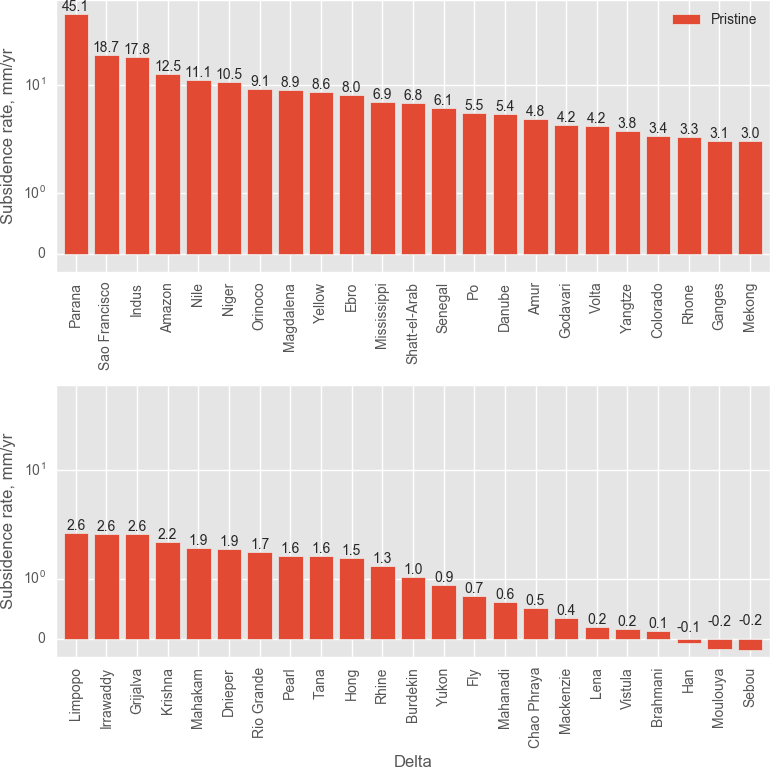
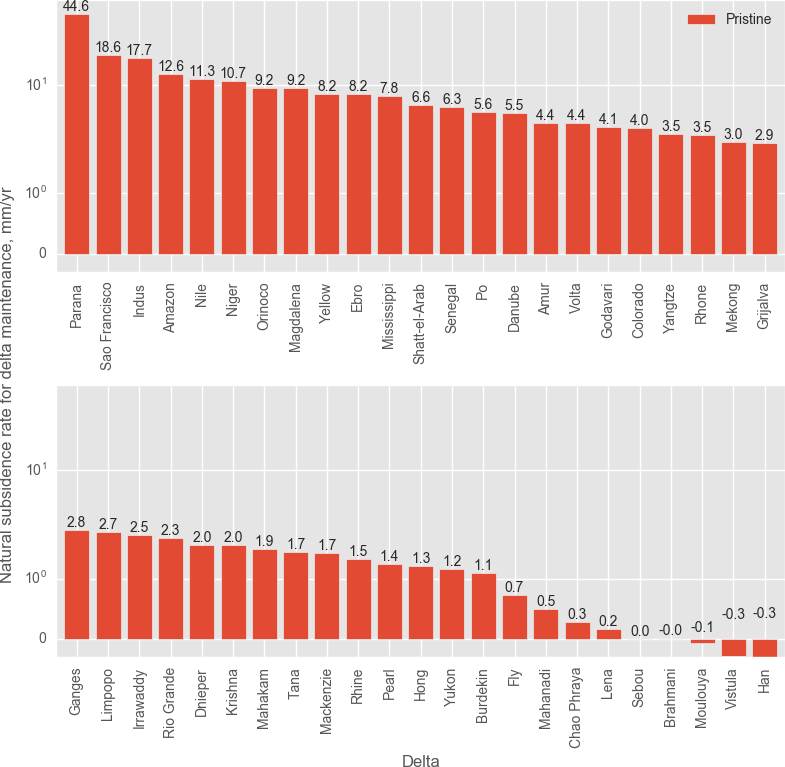
update some figure labels

diff --git a/sediment/process_sediment.py b/sediment/process_sediment.py
@@ -622,6 +622,7 @@ def plot_delta_scalars(env, target, source):
     df_all.index = [d.replace('_',' ') if 'Shatt' not in d else d.replace('_','-') for d in df_all.index]
 
     f, axs = plt.subplots(npanels, 1, figsize=(16/npanels,8))
+    f.subplots_adjust(left=.15)
     if npanels == 1:
         axs = [axs]
     n0, n1 = 0, int(np.ceil(df_all.shape[0]/float(npanels)))
@@ -651,11 +652,14 @@ def plot_delta_scalars(env, target, source):
         if ylims is not None:
             a.set_ylim(*ylims)
 
-        a.set_ylabel(ylabel)
+        if (npanels == 1):
+            a.set_ylabel(ylabel)
         if lastpanel:
             a.set_xlabel(xlabel)
         # a.set_title(title)
-    plt.tight_layout()
+    if (npanels > 1):
+        f.text(0, .5, ylabel, ha='left', va='center', rotation='vertical', fontsize=mpl.rcParams['axes.labelsize'], color=mpl.rcParams['axes.labelcolor'])
+    plt.tight_layout(rect=(.01,0,1,1))
     f.savefig(str(target[0]))
     plt.close(f)
     return 0
@@ -686,6 +690,7 @@ def plot_delta_scalars_lit(env, target, source):
     df_all.index = [d.replace('_',' ') if 'Shatt' not in d else d.replace('_','-') for d in df_all.index]
 
     f, axs = plt.subplots(npanels, 1, figsize=(16/npanels,8))
+    f.subplots_adjust(left=.15)
     if npanels == 1:
         axs = [axs]
     n0, n1 = 0, int(np.ceil(df_all.shape[0]/float(npanels)))
@@ -755,11 +760,14 @@ def plot_delta_scalars_lit(env, target, source):
             labels = labels[:-1]
             a.legend(patches, labels, loc='best', framealpha=0)
 
-        a.set_ylabel(ylabel)
+        if (npanels == 1):
+            a.set_ylabel(ylabel)
         if lastpanel:
             a.set_xlabel(xlabel)
         # a.set_title(title)
-    plt.tight_layout()
+    if (npanels > 1):
+        f.text(.01, .5, ylabel, ha='left', va='center', rotation='vertical', fontsize=mpl.rcParams['axes.labelsize'], color=mpl.rcParams['axes.labelcolor'])
+    plt.tight_layout(rect=(.025,0,1,1))
     f.savefig(str(target[0]))
     plt.close(f)
     return 0
